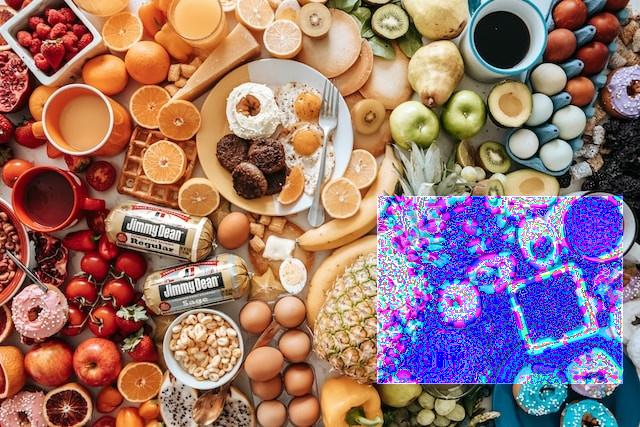
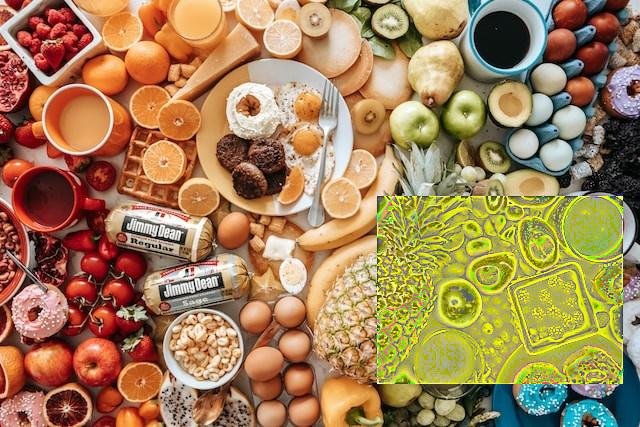
auto label initialization started

Changed region(s): [[0.5625, 0.4567, 1.0, 0.9133]]

diff --git a/Assets/ConnectionTest/AreaColorGenerationTest.py b/Assets/ConnectionTest/AreaColorGenerationTest.py
@@ -237,7 +237,17 @@ if __name__ == '__main__':
         # Separate background and label pixels
         # labelFlat = imageFlat[:, maskFlat[0]] #[1,3*numLabelPixels] : collapsed 3 color channels
         labelFlat2 = imageFlat[:, :, maskFlat[0][0]] #[1,3,numLabelPixels]
-        labelFlat2[:, 2, :].fill_(1.0) # fill with blue initial color
+        # get the average of label color and then reverse it
+        # first try naive RGB reversal -- want a [1,3] tensor
+        avg_label_color = torch.mean(labelFlat2, dim=2)
+        print(avg_label_color)
+        RGB_reverted = - avg_label_color
+        RGB_reverted = RGB_reverted.unsqueeze(2).expand_as(labelFlat2)
+
+        # fill label with the intended initial color
+        labelFlat2[:, :, :] = RGB_reverted
+
+        # labelFlat2[:, 2, :].fill_(1.0) # fill with initial blue color 
 
         # Set them to torch variables for back-propagation
         labelVar = Variable(labelFlat2, requires_grad=True) # now labelVar size is [1,3,numLabelPixels]
@@ -377,9 +387,9 @@ if __name__ == '__main__':
                 
                 if args.metric == 'ssim':
                     # output_path = f"./testResults/test20240201/{image_name}_weight-{weight}_{args.metric}_a-{alpha}b-{beta}c-{gamma}_unblurredBG_itr{args.itr}_lr{args.lr}_deltaE-{args.deltaE}.jpg"
-                    output_path = f"./testResults/test20240214_initialOpaque/{image_name}_weight-{weight}_{args.metric}_s-{ssim_sigma}k1-{k1}k2-{k2}_itr{args.itr}_lr{args.lr}_deltaE-{args.deltaE}.jpg"
+                    output_path = f"./testResults/test20240220_autoInitLabel/{image_name}_weight-{weight}_{args.metric}_s-{ssim_sigma}k1-{k1}k2-{k2}_itr{args.itr}_lr{args.lr}_deltaE-{args.deltaE}.jpg"
                 else:
-                    output_path = f"./testResults/test20240214_initialOpaque/{image_name}_weight-{weight}_{args.metric}_itr{args.itr}_lr{args.lr}_deltaE-{args.deltaE}.jpg"
+                    output_path = f"./testResults/test20240220_autoInitLabel/{image_name}_weight-{weight}_{args.metric}_itr{args.itr}_lr{args.lr}_deltaE-{args.deltaE}.jpg"
                 Image.fromarray(pred_img).save(output_path)
                 break
 
